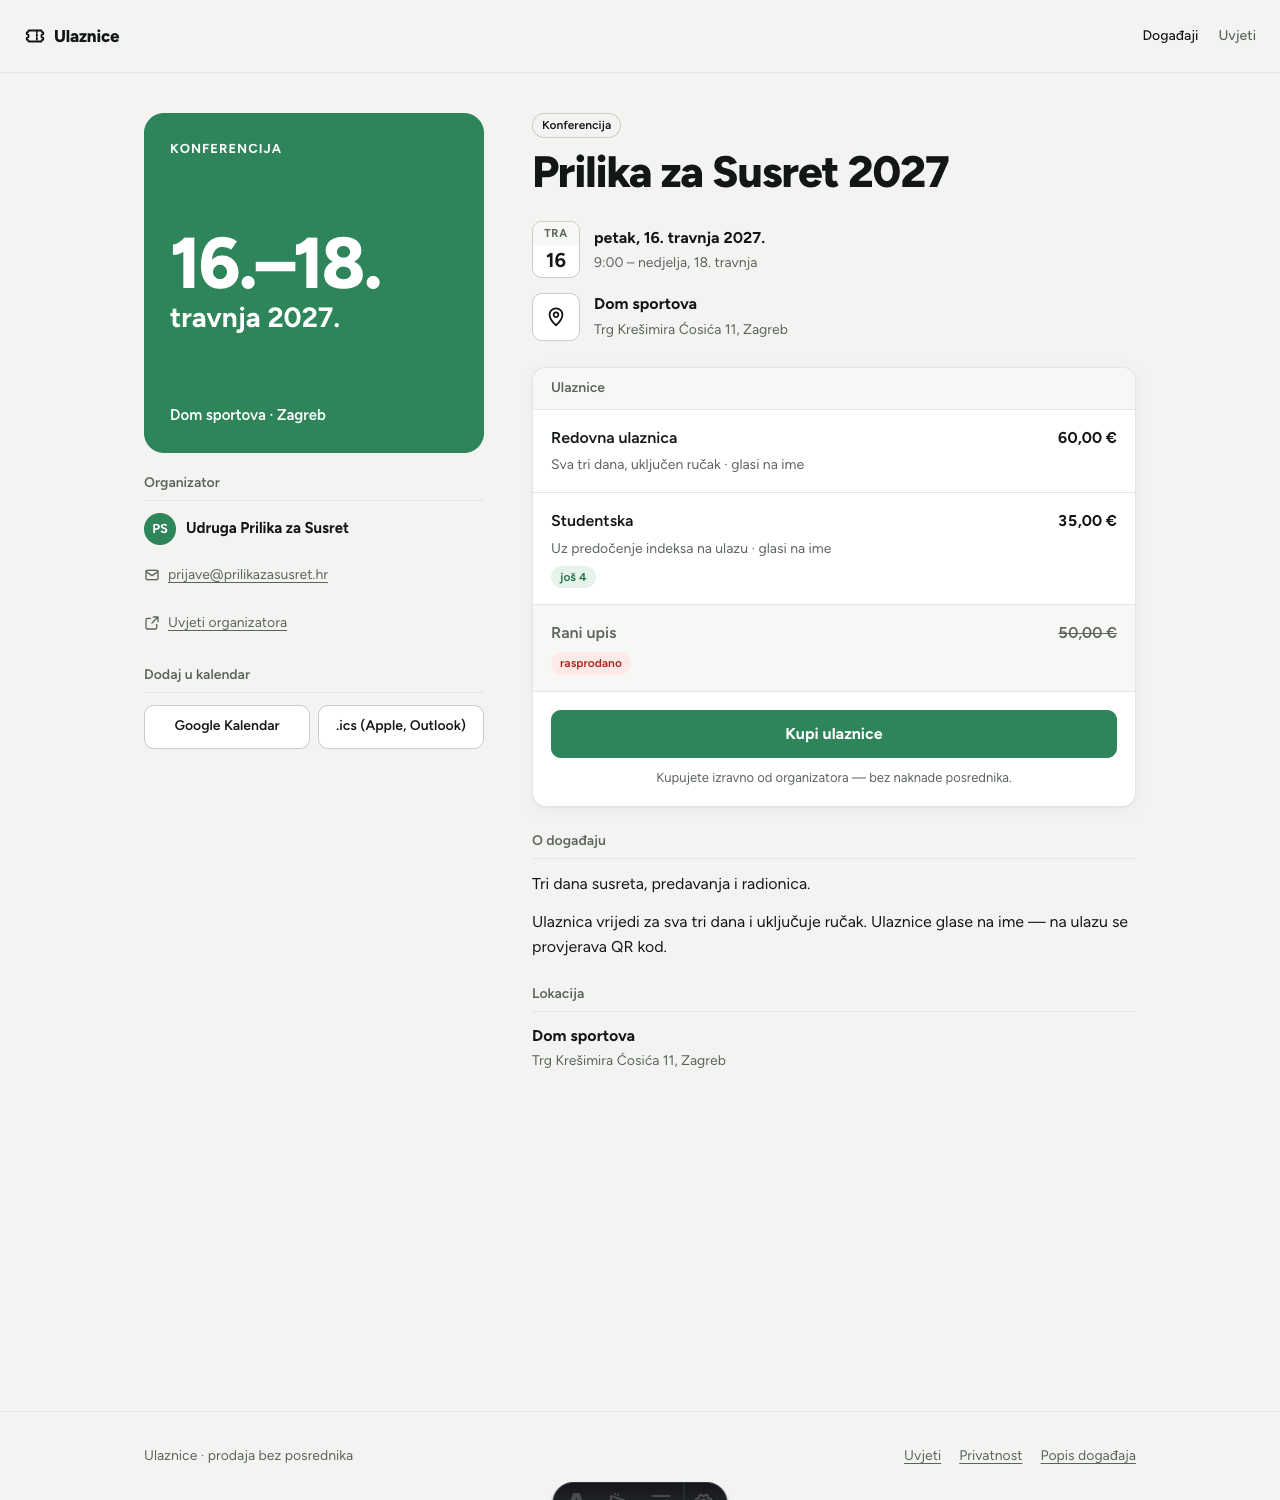
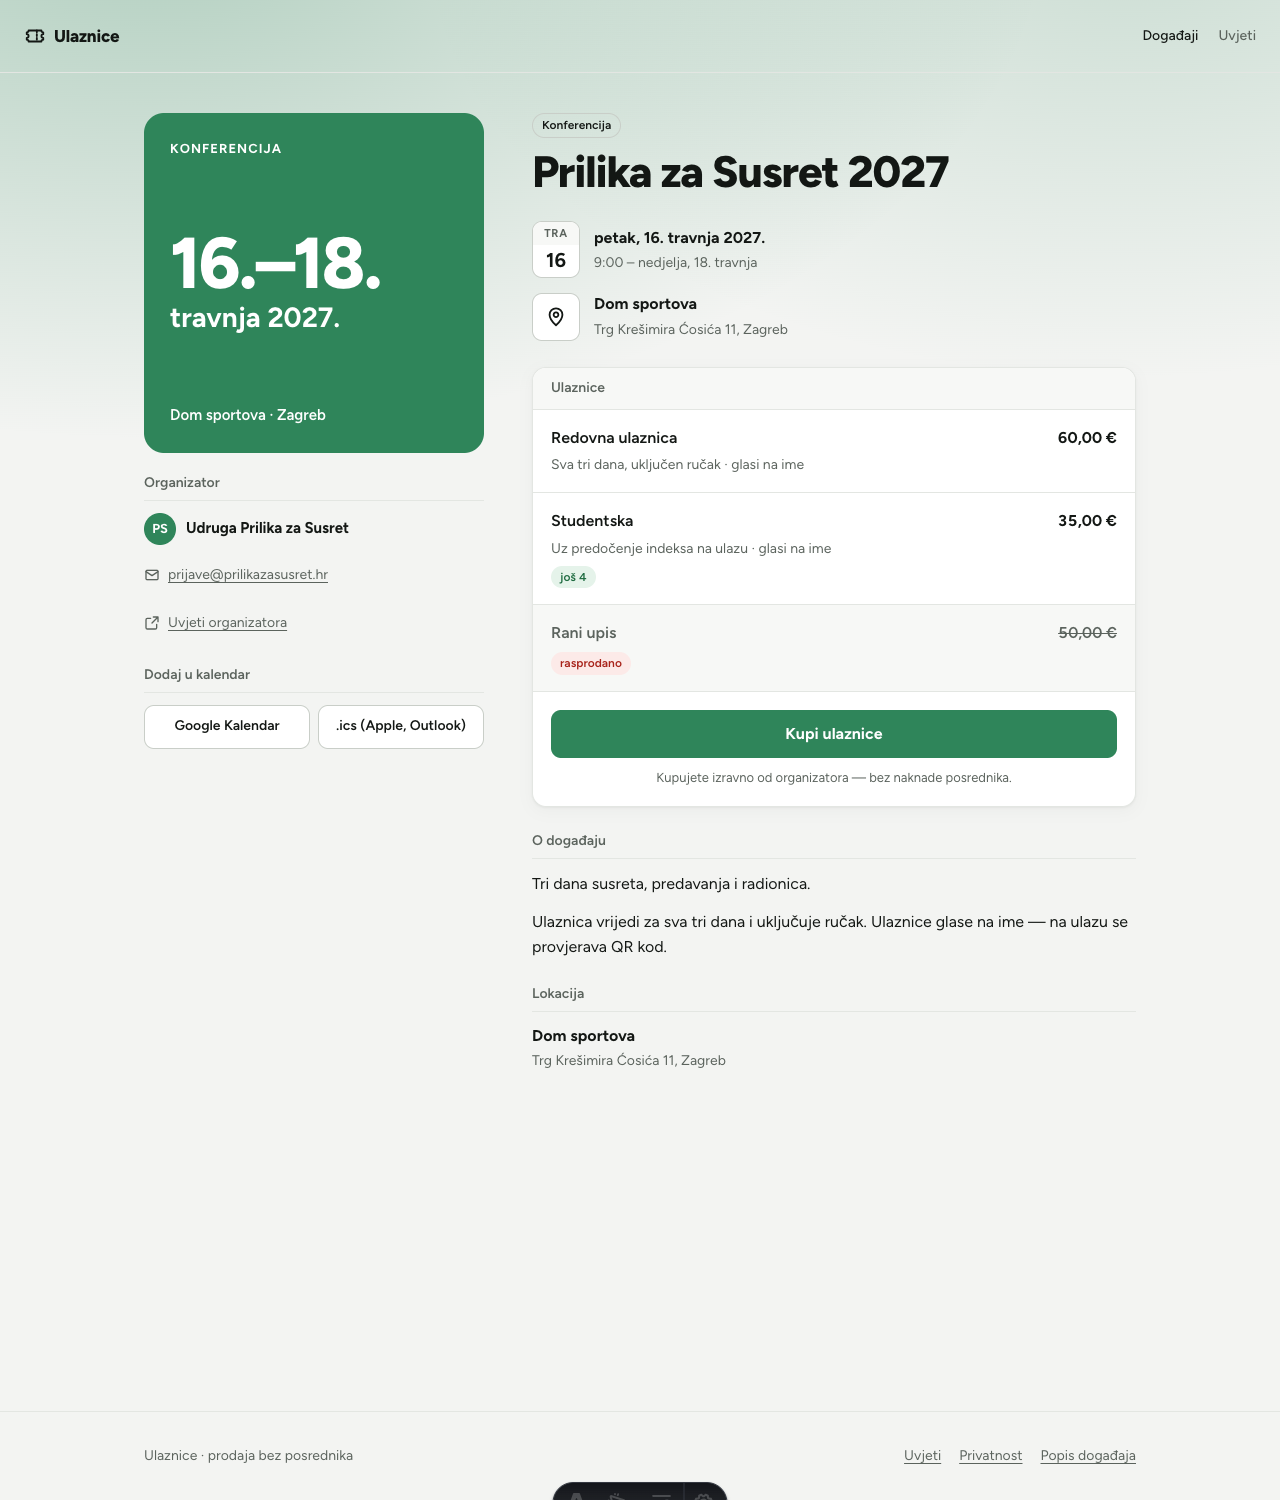
style(web): gradijent naglasne boje na vrhu stranice (odluka 311)

Changed region(s): [[0.0, 0.0, 1.0, 0.184]]

diff --git a/web/src/styles/global.css b/web/src/styles/global.css
@@ -21,7 +21,14 @@ body {
   font-size: var(--font-size-md);
   line-height: 1.55;
   color: var(--color-text);
-  background: var(--color-bg);
+  /* Mrlja naglasne boje na vrhu, kao na Lumi: zadana zelena na popisu, boja
+     organizatora na događaju (--color-accent s <html>). Blijedi do --color-bg
+     prije sadržaja, pa kontrast teksta ostaje kao na ravnoj podlozi. */
+  background:
+    radial-gradient(70% 520px at 12% -80px, color-mix(in srgb, var(--color-accent) 34%, transparent), transparent),
+    radial-gradient(55% 440px at 88% -60px, color-mix(in srgb, var(--color-accent) 20%, transparent), transparent),
+    var(--color-bg);
+  background-repeat: no-repeat;
   -webkit-font-smoothing: antialiased;
   -moz-osx-font-smoothing: grayscale;
 }

diff --git a/web/docs/decisions.md b/web/docs/decisions.md
@@ -338,3 +338,11 @@ Revizija: kad organizator s takvom bojom krene u prodaju.
 `dist/server/**/*.{mjs,js}` bez `.map` (S2 je zbrajao samo `.js`; usporedba je približna).
 Najveći novi dio je markdown-it (odluka 302).
 Revizija: S7.
+
+**311. Gradijent naglasne boje na vrhu stranice, kao na Lumi** (Ivan, nakon S3). U
+`global.css` na `body`: dvije radijalne mrlje `--color-accent` (34 % lijevo, 20 % desno) koje
+blijede do `--color-bg` oko 500 px. Na popisu je zadana zelena, na događaju boja
+organizatora. Izračunati kontrast `--color-text-muted` na najzelenijim mjestima s tekstom
+(„Uvjeti” u zaglavlju 4,71, podnaslov popisa 4,68) ostaje ≥ 4,5:1 za zadanu zelenu. Dizajn
+iz Claude Designa ovo nema; ako se dizajn ponovno uvozi, dodati ga i tamo.
+Revizija: ako tamna naglasna boja organizatora spusti kontrast ispod 4,5:1.

diff --git a/web/docs/handoffs/README.md b/web/docs/handoffs/README.md
@@ -35,7 +35,7 @@ Ovaj lanac je odvojen od `docs/handoffs/` u korijenu (faze U1–U7).
 | S2 | dizajnerski sustav | gotovo | fdc3fed | web 26, korijen 97 | Ivan, 2026-11-19; odluke 200–209; snimke `/_komponente` |
 | S2b | dorada sheme događaja (Ivanov prijedlog) | otvoreno | | | može odmah nakon S1 |
 | — | (!) migracija jezgre i `events-feed` | čeka | | | Matija |
-| S3 | popis i događaj | gotovo | (ovaj commit) | web 58, korijen 97 | Ivan, 2026-11-20; odluke 300–310; S2b i dalje otvoren |
+| S3 | popis i događaj | gotovo | (ovaj commit) | web 58, korijen 97 | Ivan, 2026-11-20; odluke 300–311; S2b i dalje otvoren |
 | S4 | kupnja | otvoreno | | | |
 | S5 | narudžba, pravno, 404 | otvoreno | | | |
 | S6 | service binding, lokalna e2e | otvoreno | | | |
